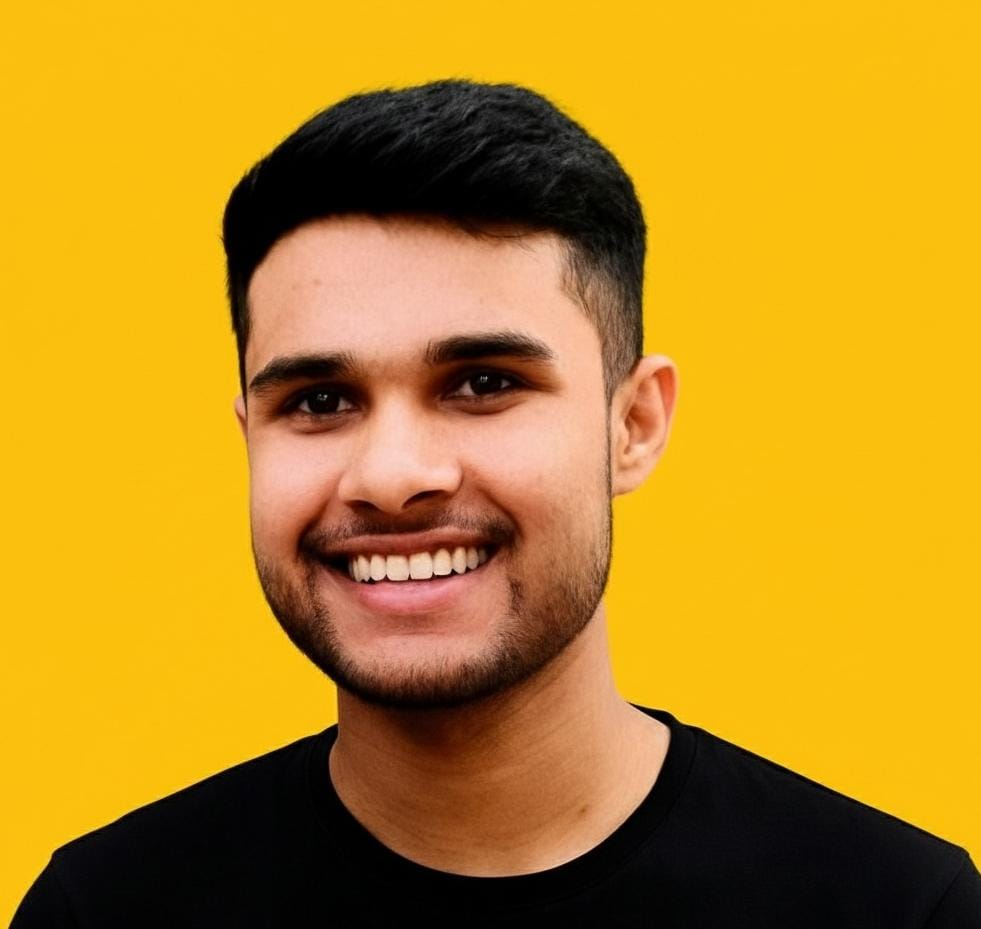
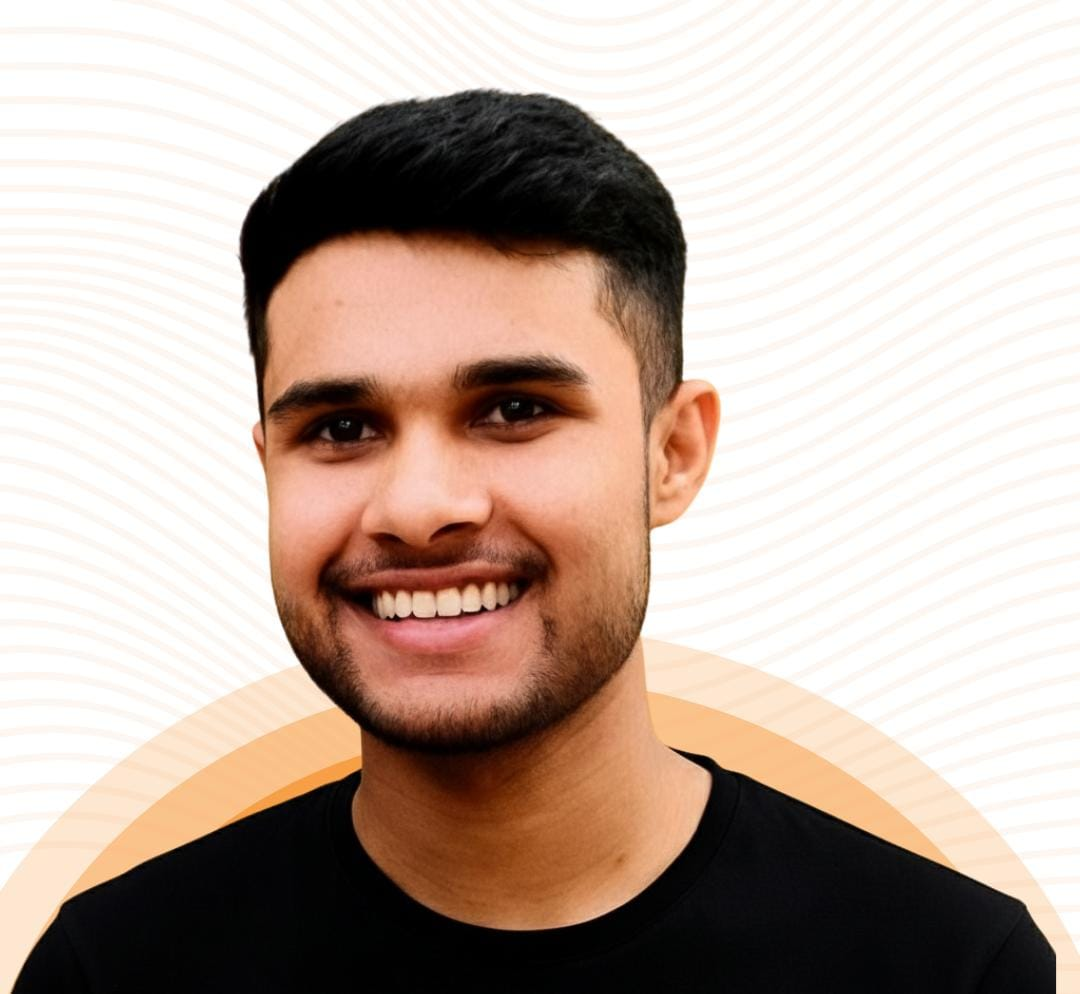
new images and replace it with the old one

diff --git a/app/(layout)/about/page.tsx b/app/(layout)/about/page.tsx
@@ -156,13 +156,13 @@ const team = [
     name: "Kush V.",
     roles: ["SDE", "SEO", "Growth", "Brand"],
     portfolio: "https://kush-personal-portfolio-my-portfolio.vercel.app/",
-    img: "/team/Kush.jpeg",
+    img: "/team/kush.jpeg",
   },
   {
     name: "Rahul K.",
     roles: ["UI/UX", "Editor", "Content", "MKTG"],
     portfolio: "https://rahulkumarci.framer.ai/",
-    img: "/team/Rahul.jpeg",
+    img: "/team/rahul.jpeg",
   },
   {
     name: "Rohit K.",
@@ -174,13 +174,13 @@ const team = [
     name: "Tausif A.",
     roles: ["SDE"],
     portfolio:"https://tausif-ansari.netlify.app/",
-    img: "/team/Tausif.jpeg",
+    img: "/team/tausif.jpeg",
   },
   {
     name: "Aditya S.",
     roles: ["Full Stack"],
     portfolio: null,
-    img: "/team/Aditya.PNG",
+    img: "/team/Aditya.png",
   },
 ];
 
